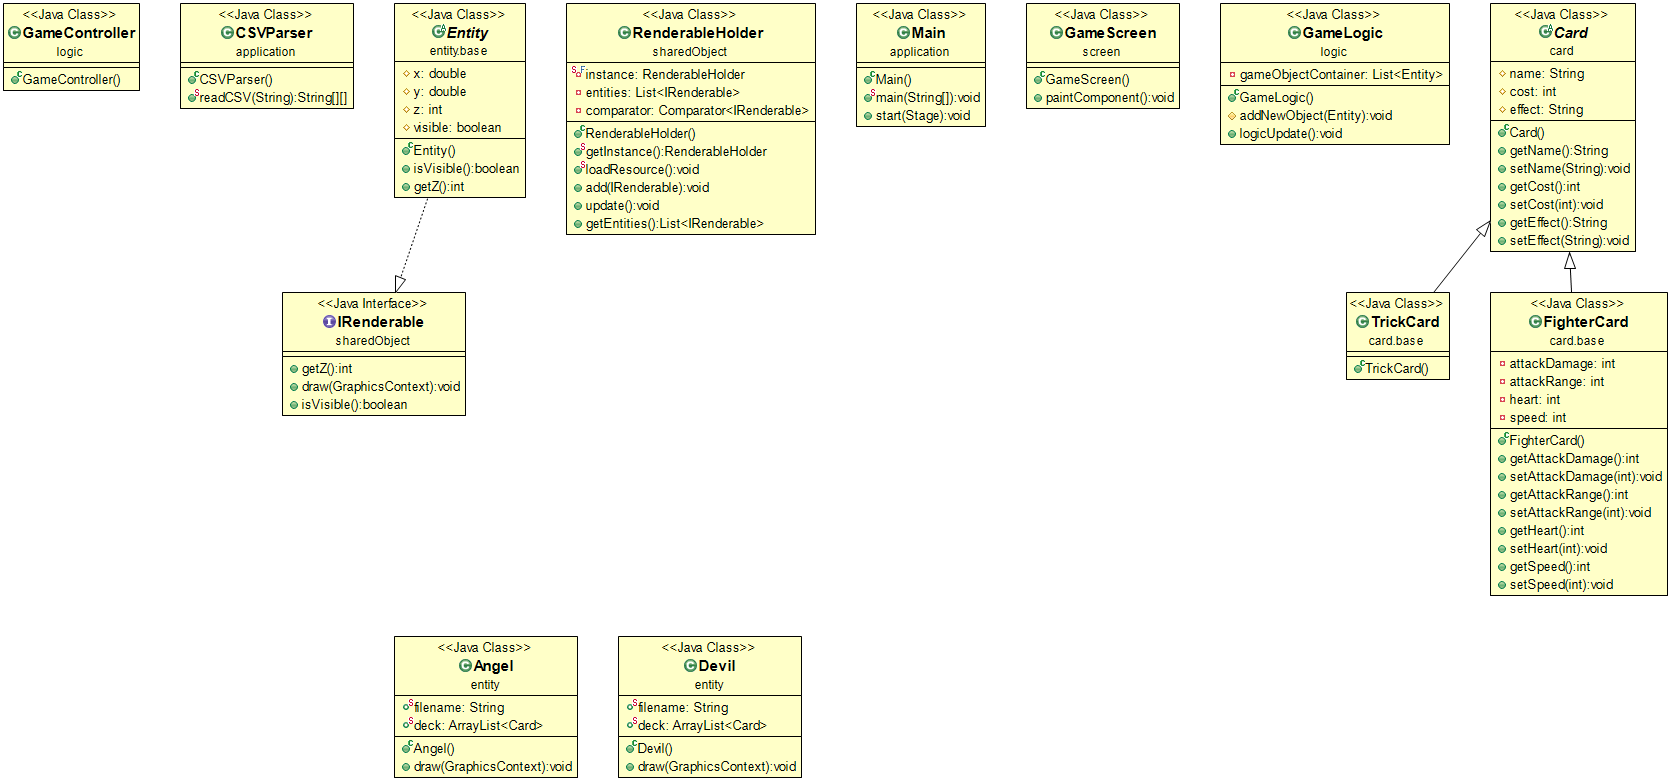
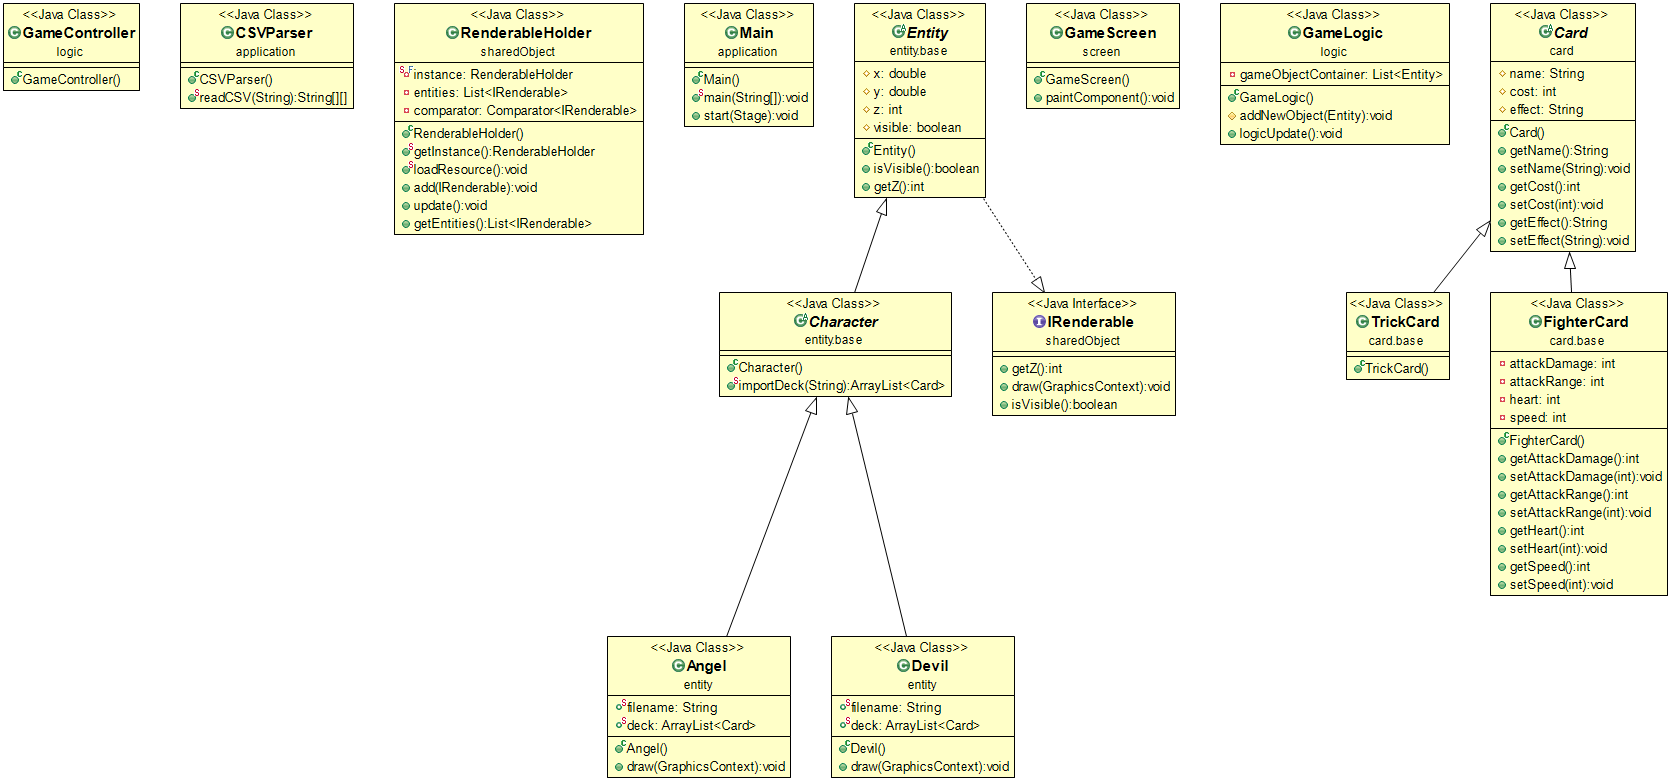
Change class name

diff --git a/src/entity/base/Character.java b/src/entity/base/Character.java
@@ -1,0 +1,39 @@
+package entity.base;
+
+import java.util.ArrayList;
+
+import application.CSVParser;
+import card.Card;
+import card.base.FighterCard;
+import card.base.TrickCard;
+
+public abstract class Character extends Entity {
+
+	public static ArrayList<Card> importDeck(String filename){
+		ArrayList<Card> deck = new ArrayList<Card>();
+		String[][] deckData = CSVParser.readCSV(filename);
+
+		for (int i = 2; i < deckData.length; i++) { // each row = each card
+			System.out.println(deckData[i][0]);
+			if (deckData[i][0].equals("Fighter")) {
+				FighterCard card = new FighterCard();
+				card.setName(deckData[i][1]);
+				card.setAttackDamage(Integer.parseInt(deckData[i][2]));
+				card.setHeart(Integer.parseInt(deckData[i][3]));
+				card.setCost(Integer.parseInt(deckData[i][4]));
+				card.setSpeed(Integer.parseInt(deckData[i][5]));
+				card.setAttackRange(Integer.parseInt(deckData[i][6]));
+				card.setEffect(deckData[i][7]);
+				deck.add(card);
+
+			} else if (deckData[i][0].equals("Trick")) {
+				TrickCard card = new TrickCard();
+				card.setName(deckData[i][1]);
+				card.setCost(Integer.parseInt(deckData[i][4]));
+				card.setEffect(deckData[i][7]);
+				deck.add(card);
+			}
+		}
+		return deck;
+	}
+}
